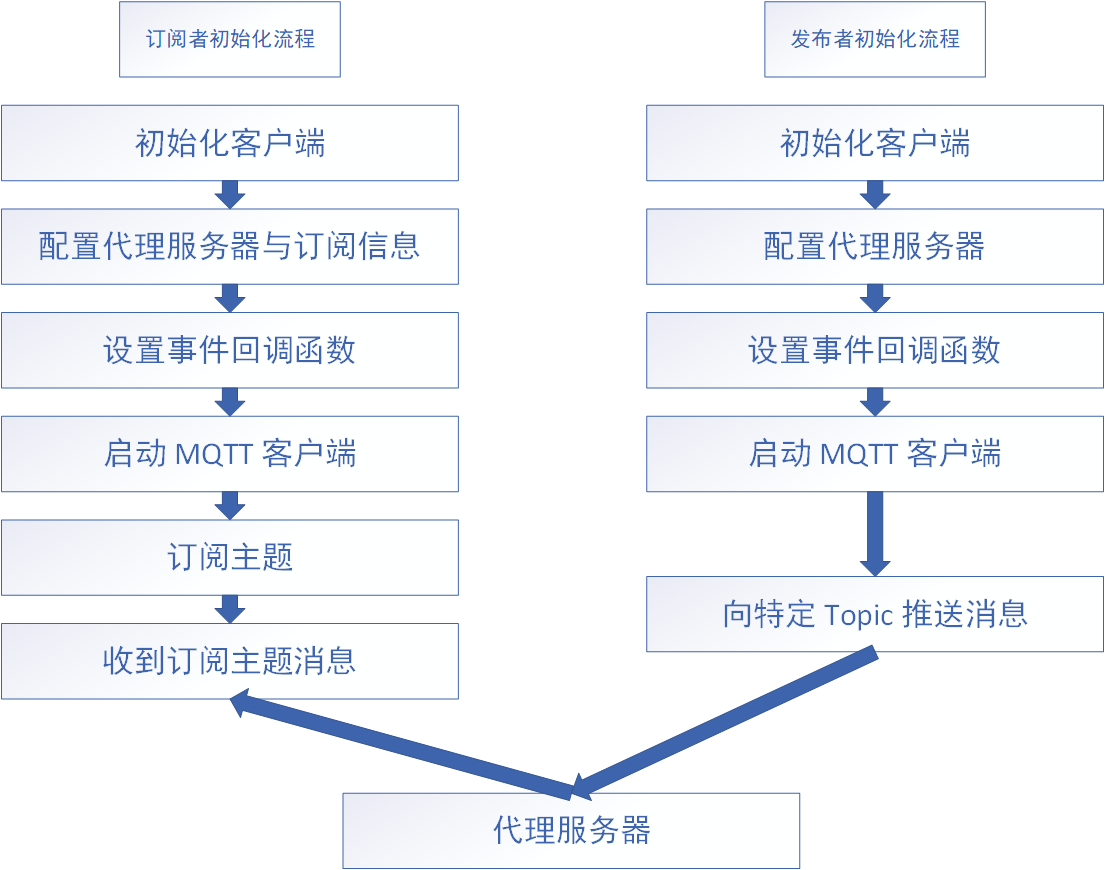
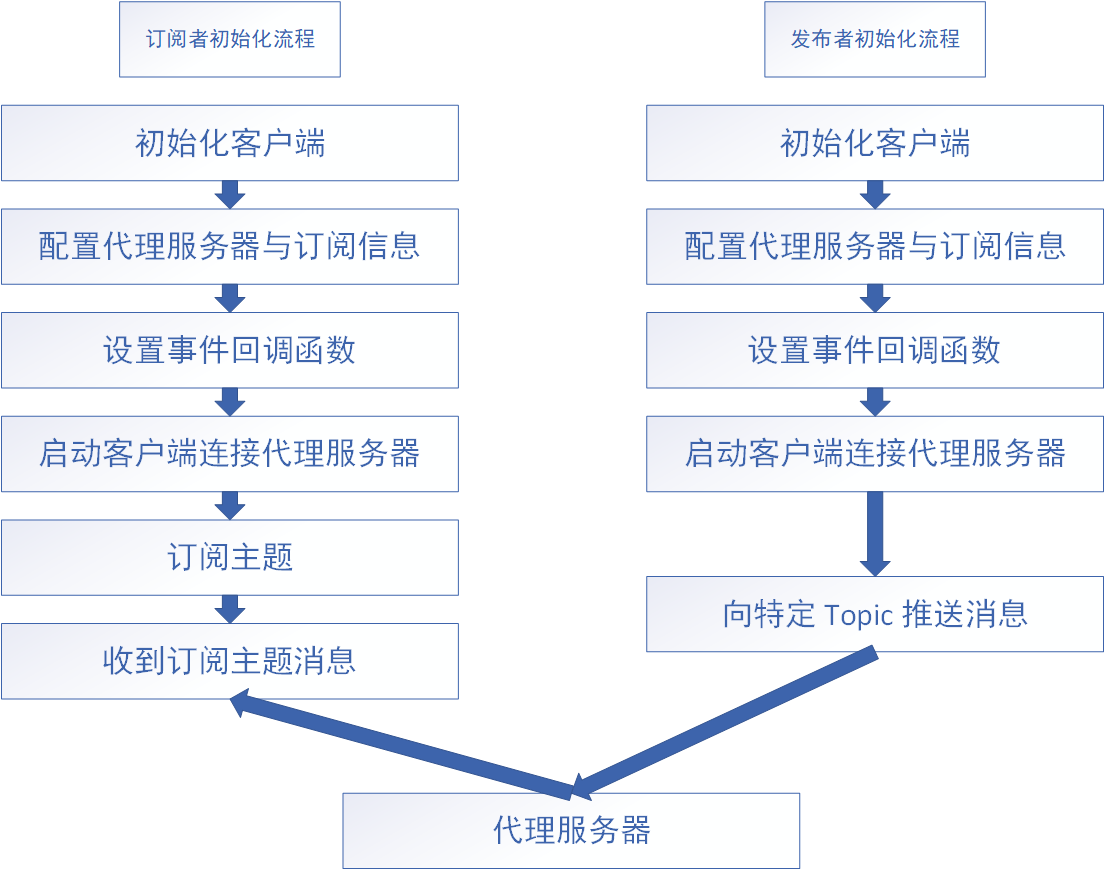
【完善】： MQTT UM 文档表述

Changed region(s): [[0.6154, 0.4966, 0.9846, 0.5586], [0.0308, 0.4966, 0.4, 0.5586], [0.6154, 0.2483, 0.9538, 0.3103]]

diff --git a/docs/api.md b/docs/api.md
@@ -2,7 +2,7 @@
 
 ## 订阅列表
 
-paho-mqtt 中采用订阅列表的形式进行多个 Topic 的订阅，订阅列表存储在 `MQTTClient` 结构体实例中，在 MQTT 启动前配置，如下所示：
+Paho MQTT 中采用订阅列表的形式进行多个 Topic 的订阅，订阅列表存储在 `MQTTClient` 结构体实例中，在 MQTT 启动前配置，如下所示：
 
 ```.{c}
 ... // 省略代码
@@ -16,12 +16,10 @@ client.messageHandlers[0].topicFilter = MQTT_SUBTOPIC;
 client.messageHandlers[0].callback = mqtt_sub_callback;
 client.messageHandlers[0].qos = QOS1;
 ```
-详细的代码参考 `samples/mqtt_sample.c` 中的 `mq_start` 函数。
-
-订阅列表的最大数量是由 `menuconfig` 中的 `Max pahomqtt subscribe topic handlers` 选项进行配置的。 
+详细的代码讲解请参考 Samples 章节，订阅列表的最大数量可以由 `menuconfig` 中的 `Max pahomqtt subscribe topic handlers` 选项进行配置。 
 
 ## callback
-paho-mqtt 使用 callback 的方式向用户提供 MQTT 的工作状态以及相关事件的处理， 在 `MQTTClient` 结构体实例中注册使用。
+paho-mqtt 使用 callback 的方式向用户提供 MQTT 的工作状态以及相关事件的处理，需要在 `MQTTClient` 结构体实例中注册使用。
 
 |callback 名称                           |描述|
 |:-----                                  |:----|
@@ -35,7 +33,7 @@ paho-mqtt 使用 callback 的方式向用户提供 MQTT 的工作状态以及相
 
 ## MQTT_URI
 
-paho-mqtt 中提供了 uri 解析功能，可以解析域名地址、ipv4 和 ipv6 地址，可解析 `tcp://` 和 `ssl://` 类型的 URI，用户需要按照要求填写可用的 uri 即可。
+paho-mqtt 中提供了 uri 解析功能，可以解析域名地址、ipv4 和 ipv6 地址，可解析 `tcp://` 和 `ssl://` 类型的 URI，用户只需要按照要求填写可用的 uri 即可。
 
 示例 uri：
 ```.{c}

diff --git a/docs/user-guide.md b/docs/user-guide.md
@@ -2,7 +2,7 @@
 
 ## 准备工作
 
-首先需要下载 MQTT 软件包，并将软件包加入到项目中。在 BSP 目录下使用 menuconfig 命令打开 env 配置界面，在 `RT-Thread online packages → IoT - internet of things`  中选择 paho-mqtt 软件包，操作界面如下图所示：
+首先需要下载 MQTT 软件包，并将软件包加入到项目中。在 BSP 目录下使用 menuconfig 命令打开 env 配置界面，在 `RT-Thread online packages → IoT - internet of things`  中选择 Paho MQTT 软件包，操作界面如下图所示：
 
 ![1530238326775](figures/select_mqtt_package.png)
 
@@ -22,7 +22,7 @@
      [*]   Enable debug log output          #开启调试Log输出                      
      version (latest)  --->                 #选择软件包版本，默认为最新版
 ````
-选择合适的配置项后，使用 pkgs--update 命令下载软件包并添加到工程中即可。
+选择合适的配置项后，使用 `pkgs --update` 命令下载软件包并添加到工程中即可。
 
 ## 使用流程
 

diff --git a/docs/principle.md b/docs/principle.md
@@ -13,7 +13,7 @@
 
 ## MQTT 软件包框架图
 
-在 RT-Thread 系统中，MQTT 软件包依赖于 Lwip 协议栈，基于 TCP 通信，结构图如下：
+在 RT-Thread 系统中，MQTT 软件包依赖于 Lwip 协议栈，基于 TCP/IP 通信，结构图如下：
 
 ![1530931499681](figures/mqtt_struct.png)
 
